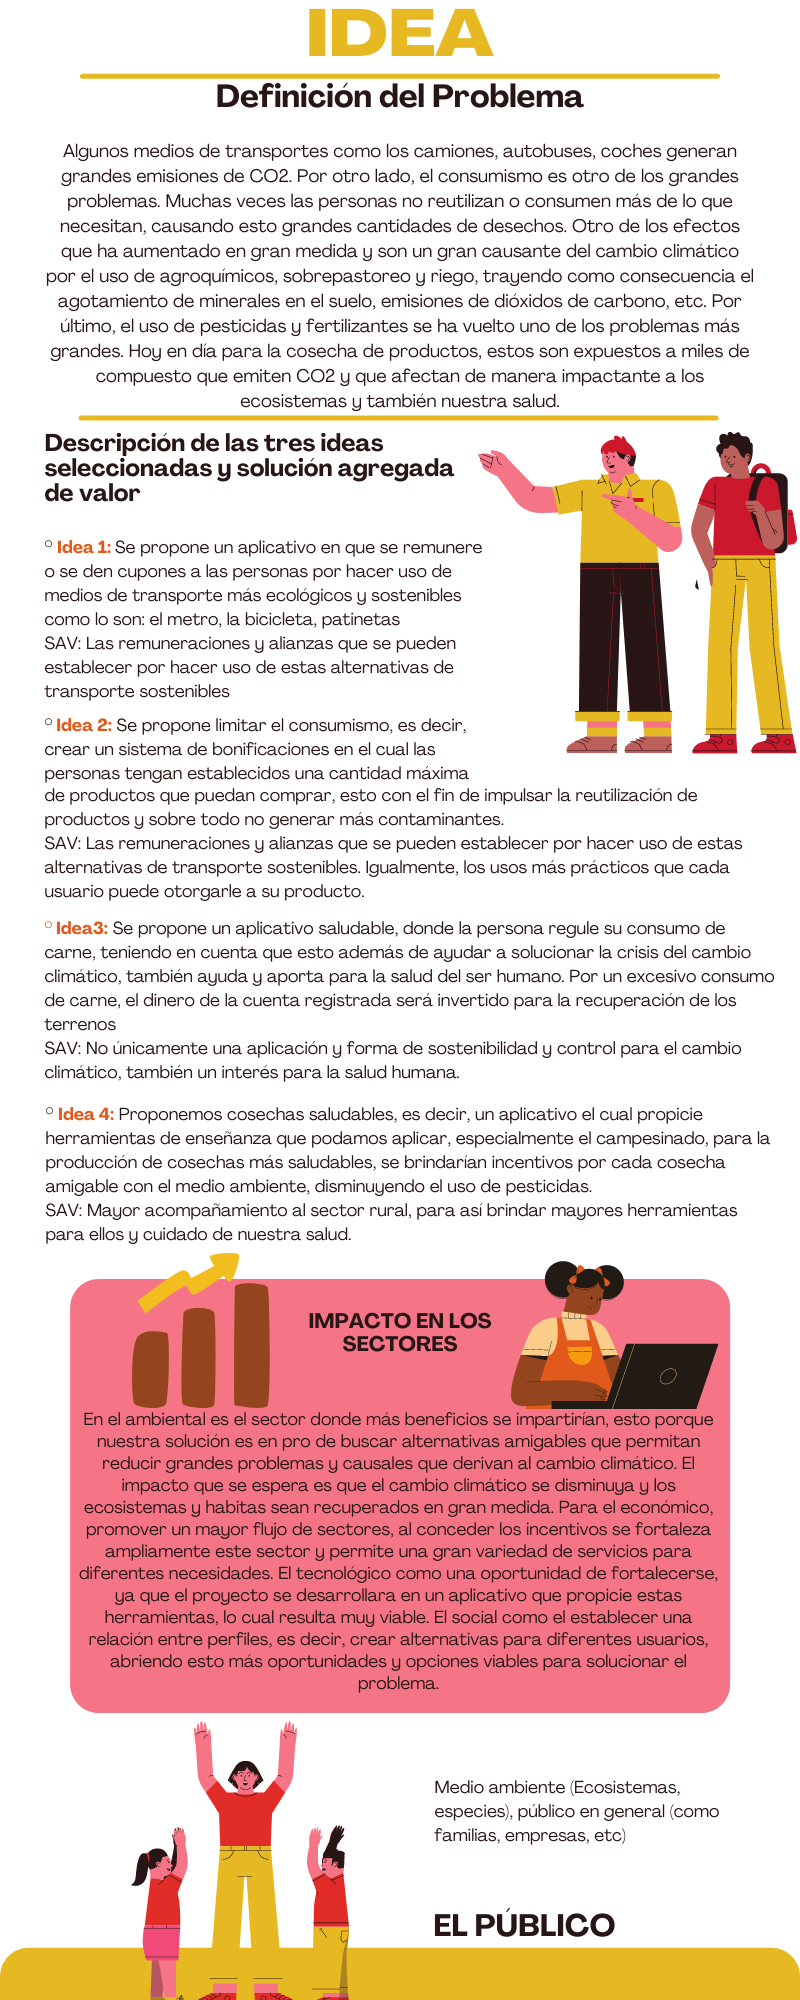
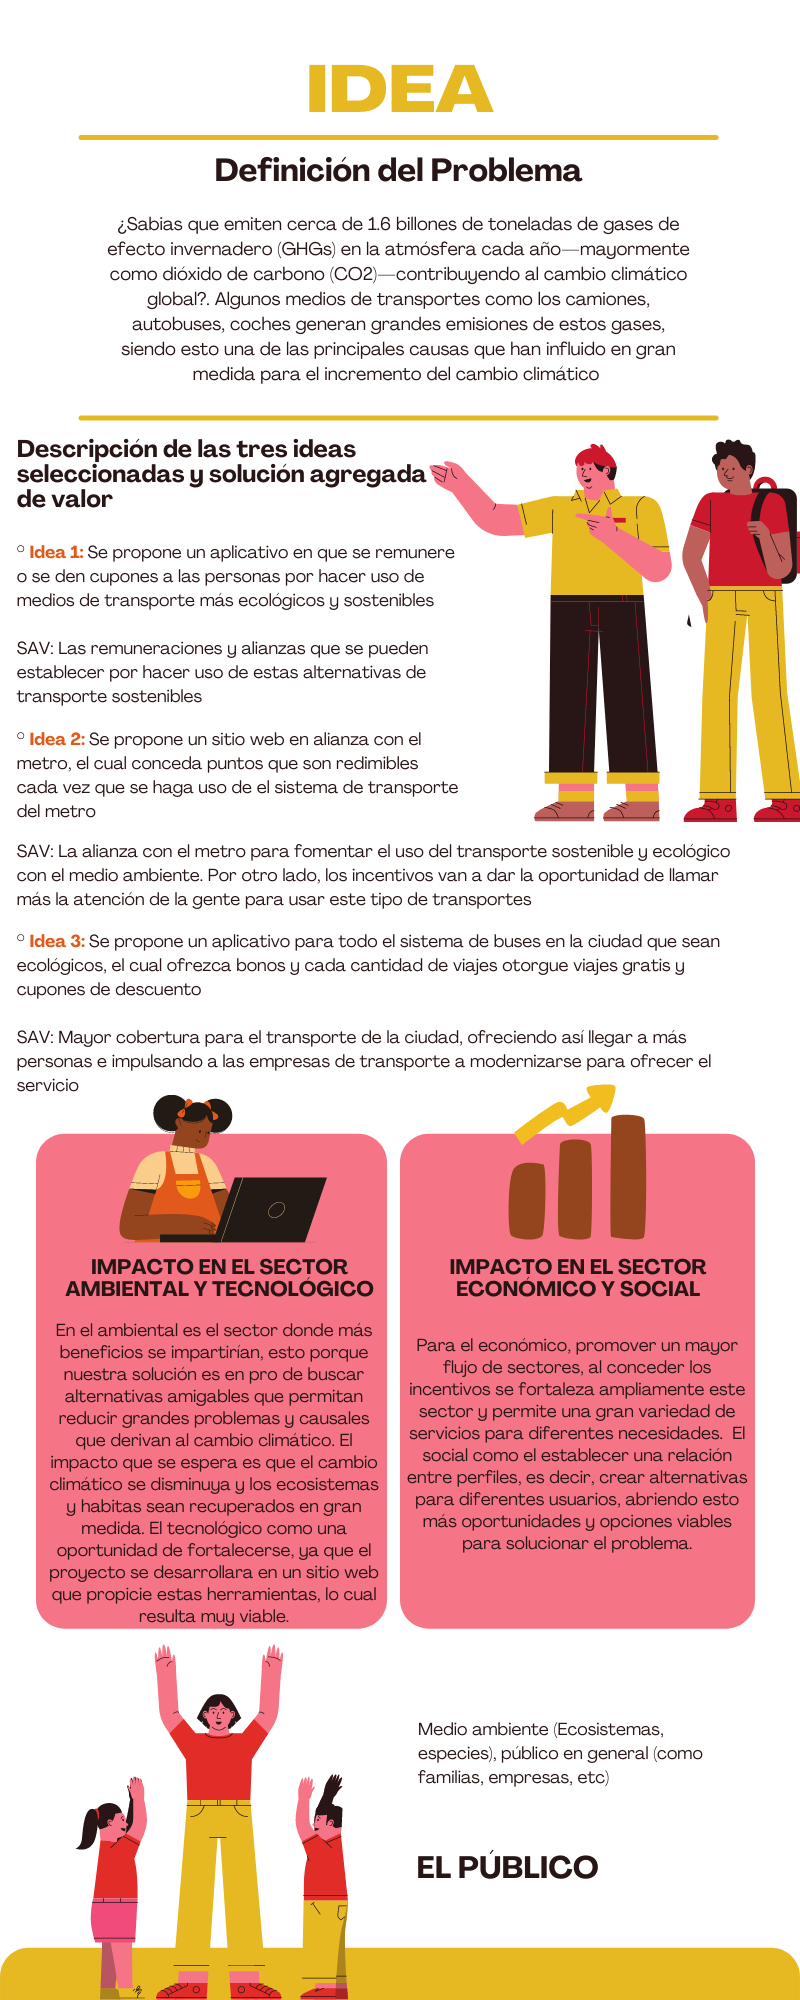
Arreglo interfaz gráfica

diff --git a/index.html b/index.html
@@ -68,15 +68,12 @@
         <blockquote>Se propone un aplicativo en que se remunere o se den cupones a las personas por hacer uso de medios de transporte más ecológicos y sostenibles como lo son: el metro, la bicicleta, patinetas</blockquote>
       </li>
       <li class="one_half">
-        <blockquote>Se propone limitar el consumismo, es decir, crear un sistema de bonificaciones en el cual las personas tengan establecidos una cantidad máxima de productos que puedan comprar, esto con el fin de impulsar la reutilización de productos y sobre todo no generar más contaminantes.</blockquote>
+        <blockquote>Se propone un sitio web en alianza con el metro, el cual conceda puntos que son redimibles cada vez que se haga uso de el sistema de transporte del metro</blockquote>
       </li>
     </ul>
     <ul id="testimonials" class="nospace group btmspace-80">
       <li class="one_half first">
-        <blockquote>Se propone un aplicativo saludable, donde la persona regule su consumo de carne, teniendo en cuenta que esto además de ayudar a solucionar la crisis del cambio climático, también ayuda y aporta para la salud del ser humano. Por un excesivo consumo de carne, el dinero de la cuenta registrada será invertido para la recuperación de los terrenos</blockquote>
-      </li>
-      <li class="one_half">
-        <blockquote>Proponemos cosechas saludables, es decir, un aplicativo el cual propicie herramientas de enseñanza que podamos aplicar, especialmente el campesinado, para la producción de cosechas más saludables, se brindarían incentivos por cada cosecha amigable con el medio ambiente, disminuyendo el uso de pesticidas.</blockquote>
+        <blockquote>Se propone un aplicativo para todo el sistema de buses en la ciudad que sean ecológicos, el cual ofrezca bonos y cada cantidad de viajes otorgue viajes gratis y cupones de descuento</blockquote>
       </li>
     </ul>
   </section>
@@ -93,16 +90,16 @@
           <figure><img src="images/trabajoconjunto.png" alt=""></figure>
           <div class="excerpt">
             <h6 class="heading">Idea 1</h6>
-            <p>Las remuneraciones y alianzas que se pueden establecer por hacer uso de estas alternativas de transporte sostenibles</p>
+            <p>Las remuneraciones y alianzas que se pueden establecer por hacer uso de estas alternativas de transporte sostenibles.</p>
           </div>
         </article>
       </li>
       <li class="one_third">
         <article>
-          <figure><img src="images/diversidad.jpg" alt=""></figure>
+          <figure><img src="images/trabajoe4.jpg" alt=""></figure>
           <div class="excerpt">
             <h6 class="heading">Idea 2</h6>
-            <p>Las remuneraciones y alianzas que se pueden establecer por hacer uso de estas alternativas de transporte sostenibles. Igualmente, los usos más prácticos que cada usuario puede otorgarle a su producto.</p>
+            <p>La alianza con el metro para fomentar el uso del transporte sostenible y ecológico con el medio ambiente. Por otro lado, los incentivos van a dar la oportunidad de llamar más la atención de la gente para usar este tipo de transportes.</p>
           </div>
         </article>
       </li>
@@ -111,16 +108,7 @@
           <figure><img src="images/expandir.jpg" alt=""></figure>
           <div class="excerpt" style="padding-top: 30px;">
             <h6 class="heading">Idea 3</h6>
-            <p>No únicamente una aplicación y forma de sostenibilidad y control para el cambio climático, también un interés para la salud humana.</p>
-          </div>
-        </article>
-      </li>
-      <li class="one_third first">
-        <article>
-          <figure><img src="images/trabajoe4.jpg" alt=""></figure>
-          <div class="excerpt">
-            <h6 class="heading">Idea 4</h6>
-            <p>Mayor acompañamiento al sector rural, para así brindar mayores herramientas para ellos y cuidado de nuestra salud.</p>
+            <p>Mayor cobertura para el transporte de la ciudad, ofreciendo así llegar a más personas e impulsando a las empresas de transporte a modernizarse para ofrecer el servicio.</p>
           </div>
         </article>
       </li>

diff --git a/layout/styles/layout.css b/layout/styles/layout.css
@@ -318,12 +318,12 @@ input:focus, textarea:focus, *:required:focus{border-color:#FF3F4A !important;}
 .imgover:hover::before{background:rgba(0,0,0,.55);}
 .imgover, .imgover:hover::after{color:#FFFFFF;}
 
-.heading.underline::after{background-color:#A60009;}
+.heading.underline::after{background-color:#a65000;}
 
 
 /* Rows */
 .row0{color:#474747; background-color:#F4F4F4;}
-.row1{color:#FFFFFF; background-color:#FF3F4A;}
+.row1{color:#FFFFFF; background-color:#f3b91a;}
 .row2{color:#474747; background-color:#F4F4F4;}
 .row3{color:#474747; background-color:#FFFFFF;}
 .row4{color:#A5A6AA; background-color:#27282E;}
@@ -333,7 +333,7 @@ input:focus, textarea:focus, *:required:focus{border-color:#FF3F4A !important;}
 /* Top Bar */
 #topbar #searchform{color:#FF3F4A;}
 #topbar #searchform:hover{}
-#topbar #searchform input{color:#FFFFFF; background:#A60009;}
+#topbar #searchform input{color:#FFFFFF; background:#a66400;}
 #topbar #searchform button{color:#FFFFFF; background:transparent;}
 
 
@@ -349,7 +349,7 @@ input:focus, textarea:focus, *:required:focus{border-color:#FF3F4A !important;}
 #introblocks article{color:#474747; background-color:#FFFFFF; box-shadow:0px 0px 15px rgba(0,0,0,.1);}
 #introblocks article:hover, #introblocks .active{color:#FFFFFF; background-color:#1C1D21;}
 #introblocks article i{border-color:rgba(0,0,0,.1);}
-#introblocks article:hover i, #introblocks .active i{color:#FFFFFF; background-color:#FF3F4A;}
+#introblocks article:hover i, #introblocks .active i{color:#FFFFFF; background-color:#45ff3f;}
 
 
 /* Content Area */
@@ -357,10 +357,10 @@ input:focus, textarea:focus, *:required:focus{border-color:#FF3F4A !important;}
 .overview article:hover a{color:#FF3F4A;}
 
 #testimonials blockquote{color:#474747; background-color:#FFFFFF;}
-#testimonials blockquote:hover{color:#FFFFFF; background-color:#A60009;}
+#testimonials blockquote:hover{color:#FFFFFF; background-color:#fa9600;}
 #testimonials blockquote::before{color:rgba(0,0,0,.1);}
 #testimonials blockquote::after{border-top-color:#FFFFFF;}
-#testimonials blockquote:hover::after{border-top-color:#A60009;}
+#testimonials blockquote:hover::after{border-top-color:#06a600;}
 
 
 /* Footer */
@@ -371,7 +371,7 @@ input:focus, textarea:focus, *:required:focus{border-color:#FF3F4A !important;}
 /* Navigation */
 #mainav{}
 #mainav li a{color:inherit; border-color:transparent;}
-#mainav .active a, #mainav a:hover, #mainav li:hover > a{color:#FFFFFF; background-color:#A60009;}
+#mainav .active a, #mainav a:hover, #mainav li:hover > a{color:#FFFFFF; background-color:#c99c07;}
 #mainav li li a, #mainav .active li a{color:#FFFFFF; background-color:rgba(255,63,74,.5);/* #FF3F4A */ border-color:rgba(255,63,74,.5);}
 #mainav li li:hover > a, #mainav .active .active > a{color:#FFFFFF; background-color:#A60009; border-color:rgba(255,255,255,.6);}
 #mainav form select{color:#474747; background-color:#FFFFFF;}

diff --git a/pages/informacion.html b/pages/informacion.html
@@ -47,13 +47,8 @@
       <ul>
         <li>
           <article>
-            <header>
-              <address>
-              <a href="#">IDEA</a>
-              </address>
-            </header>
             <div class="comcont">
-              <p>El valor agregado es que pensamos en diversificar las opciones, es decir, desde diferentes problemáticas que abordan al cambio climático dar posibles soluciones, no solo centrarnos en una de esas causas, por la razón de que los interesados y usuarios tienes gustos diversos y pueden aportar de diferentes maneras. Otros aplicativos limitan demasiado las opciones para dar solución a la problemática, haciendo esto que muchas personas no hagan uso de ellas porque no sienten una representación o una solución que vaya concorde a sus perfiles.</p>
+              <p>El valor agregado de nuestra idea es que buscamos aliarnos con una entidad que tiene gran influencia y magnitud en el transporte de la ciudad y que por otro lado es sostenible, es decir, contamos con el apoyo de una entidad la cual es una de las más importantes para la movilidad de muchas personas, las cuales poseen diversos gustos y que esta empresa del metro ofrece diferentes alternativas alternativas de transporte para los usuarios. Lo anterior se conecta a promover y difundir información sobre ciertos establecimientos comerciales, debido a que los incentivos son diversos y pueden dar a conocer diferentes empresas.</p>
             </div>
           </article>
         </li>

diff --git a/pages/pni.html b/pages/pni.html
@@ -49,9 +49,8 @@ Licence URI: https://www.os-templates.com/template-terms
       <!-- ################################################################################################ -->
       <div id="gallery" style="margin-top: -20px;">
         <figure>
-          <img src="../images/PNI1.png" alt="">
-          <img src="../images/PNI2.png" style="margin-left: -15px;" alt="">
-          <img src="../images/PNI3.png" style="margin-left: -15px;" alt="">
+          <img src="../images/LluviaIdeas1.png" alt="">
+          <img src="../images/LluviaIdeas2.png" style="margin-top: 20px;" alt="">
 
         </figure>
       </div>

diff --git a/pages/scamper.html b/pages/scamper.html
@@ -60,8 +60,8 @@ Licence URI: https://www.os-templates.com/template-terms
       <div id="gallery" style="margin-top: -20px;">
         <figure>
 
-          <img src="../images/SCAMPER1 (2).png" style="margin-top: 10px;" alt="">
-          <img src="../images/SCAMPER2 (2).png" style="margin-top: 40px;" alt="">
+          <img src="../images/Scamper1.png" style="margin-top: 10px;" alt="">
+          <img src="../images/Scamper2.png" style="margin-top: 40px;" alt="">
 
         </figure>
       </div>
